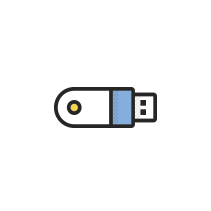
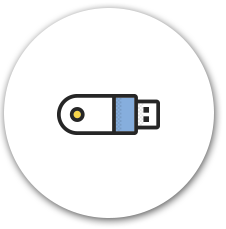
chnages in home page

diff --git a/views/content/home.html b/views/content/home.html
@@ -95,8 +95,8 @@
           </div>
           <div class="col-md-10">
             <div class="help-title">
-              <h2 class="color-white font-blazen margin5">Professional Help</h2>
-              <h2 class="color-white margin0">Get help from the professional to get your app Developed</h2>
+              <h2 class="color-grey font-blazen margin5">Professional Help</h2>
+              <h2 class="color-grey margin0">Get help from the professional to get your app Developed</h2>
             </div>
           </div>
         </div>
@@ -120,8 +120,8 @@
               </div>
               <div class="col-md-9">
                 <div class="code-title">
-                  <h2 class="color-white font-blazen">Downloadable Code</h2>
-                  <p class="color-white">Download the application code and modify make your own personal templates as well. Preintegrated with backend. Blog integration with Wordpress, Tumblr. Code developed with HTML, CSS, Angular JS, Ionic.</p>
+                  <h2 class="color-grey font-blazen">Downloadable Code</h2>
+                  <p class="color-grey">Download the application code and modify make your own personal templates as well. Preintegrated with backend. Blog integration with Wordpress, Tumblr. Code developed with HTML, CSS, Angular JS, Ionic.</p>
                 </div>
                 <div class="lang-list custom-li store-icon">
                   <ul>
@@ -155,7 +155,7 @@
           <div class="row">
             <div class="col-md-5">
               <div class="blog-title">
-                <h1 class="color-white font-bold font-blazen">BLOG</h1>
+                <h1 class="color-grey font-bold font-blazen">BLOG</h1>
               </div>
             </div>
             <div class="col-md-4 border-right">
@@ -176,7 +176,7 @@
             </div>
             <div class="col-md-3">
               <div class="short-info">
-                <h4 class="color-white">Pre Integrated with Wordpress & Tumblr</h4>
+                <h4 class="color-grey">Pre Integrated with Wordpress & Tumblr</h4>
               </div>
             </div>
           </div>
@@ -211,7 +211,7 @@
         </div>
       </div>
     </div>
-    <div class="bg-login mt15">
+    <div class="bg-login bg-code mt15">
     <div class="row">
       <div class="col-md-10">
         <div class="signup-title">

diff --git a/sass/main.scss b/sass/main.scss
@@ -116,6 +116,7 @@ $menu-height: 65px !default;
 
 body {
     padding-top: $menu-height;
+        background-color: #F4F4F4;
 }
 
 img.loading {
@@ -436,12 +437,12 @@ width: 90px;
 border-style: dashed;
 }
 .bg-code{
-  background: url(../img/blog-bg.jpg)no-repeat;
-  background-size: cover;
+border: 1px solid #F4F4F4;
+background: #fff;
 }
 .social-bg{
-      margin-top: 15px;
-          padding: 15px 10px 10px 0px;
+  margin-top: 15px;
+  padding: 15px 10px 10px 0px;
 }
 .icon-list {
     height: 110px;
@@ -470,7 +471,7 @@ margin: 0px;
     padding: 0px 10px 0px 10px;
 }
 .border-right{
-  border-right:1px solid #fff;
+  border-right:1px solid #C3C3C3;
 }
 .social-signup{
   ul{
@@ -497,8 +498,6 @@ margin: 0px;
       margin: 8px 12px 0px 0px;
 }
 .bg-login{
-  background: url(../img/bg-login.jpg)no-repeat;
-  background-size: cover;
       padding: 0px 0px 30px 20px;
 }
 .feature-bg{
@@ -555,4 +554,7 @@ margin: 0px;
   h3{
     font-size: 28px;
   }
+}
+.color-grey{
+  color:#C3C3C3;
 }
